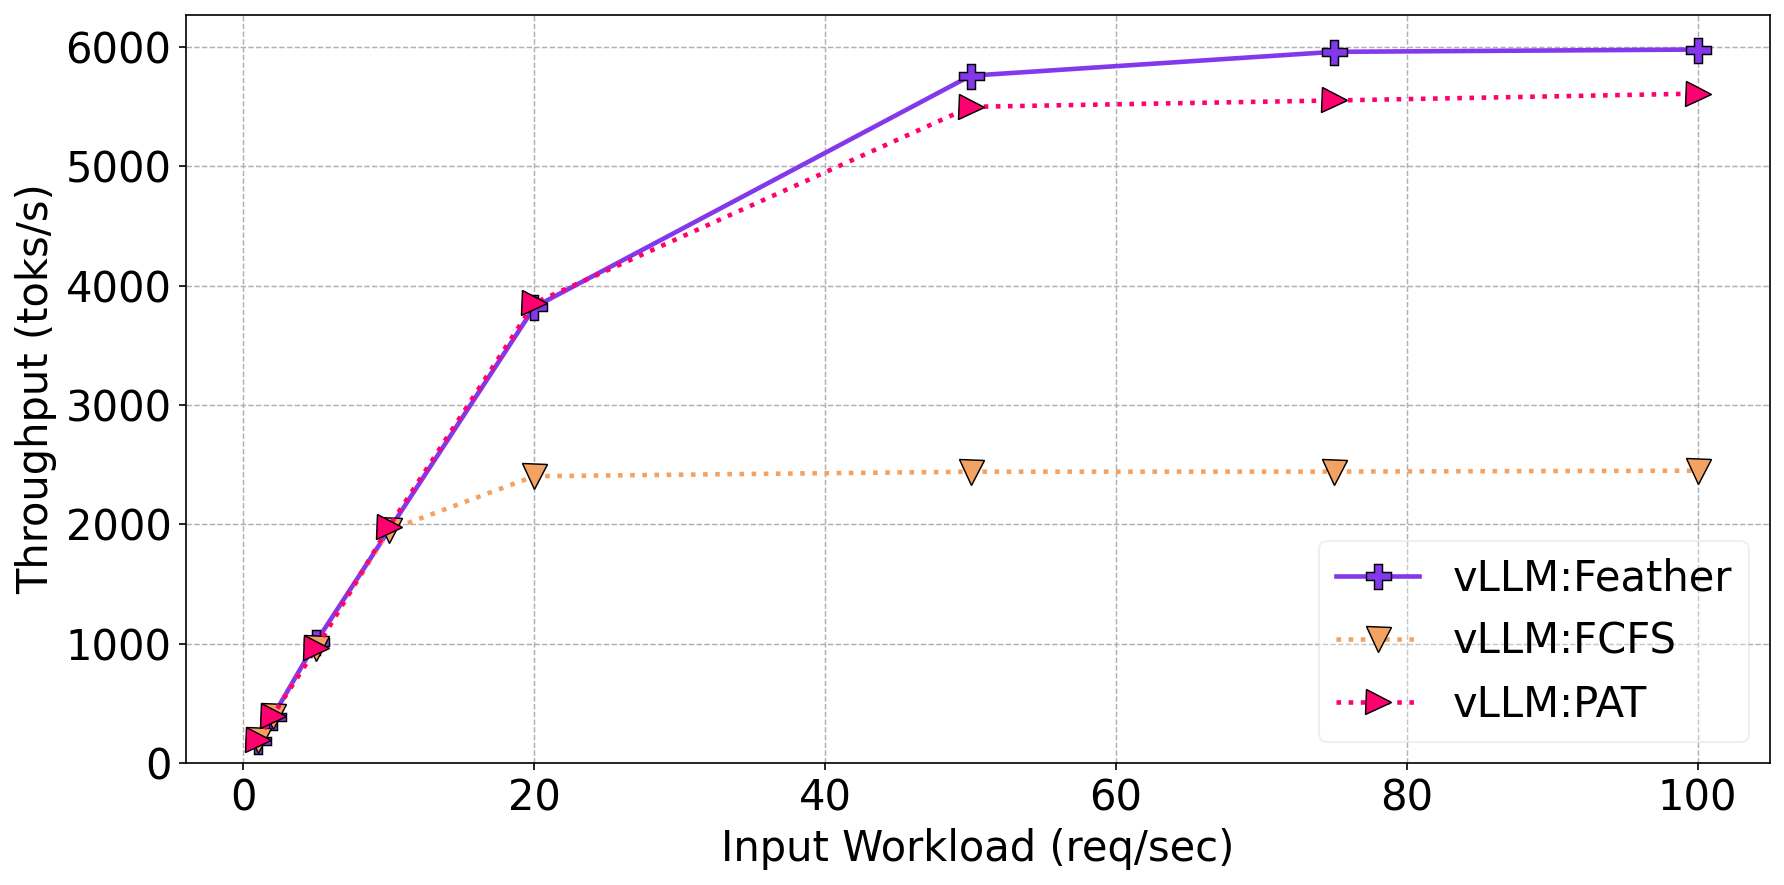
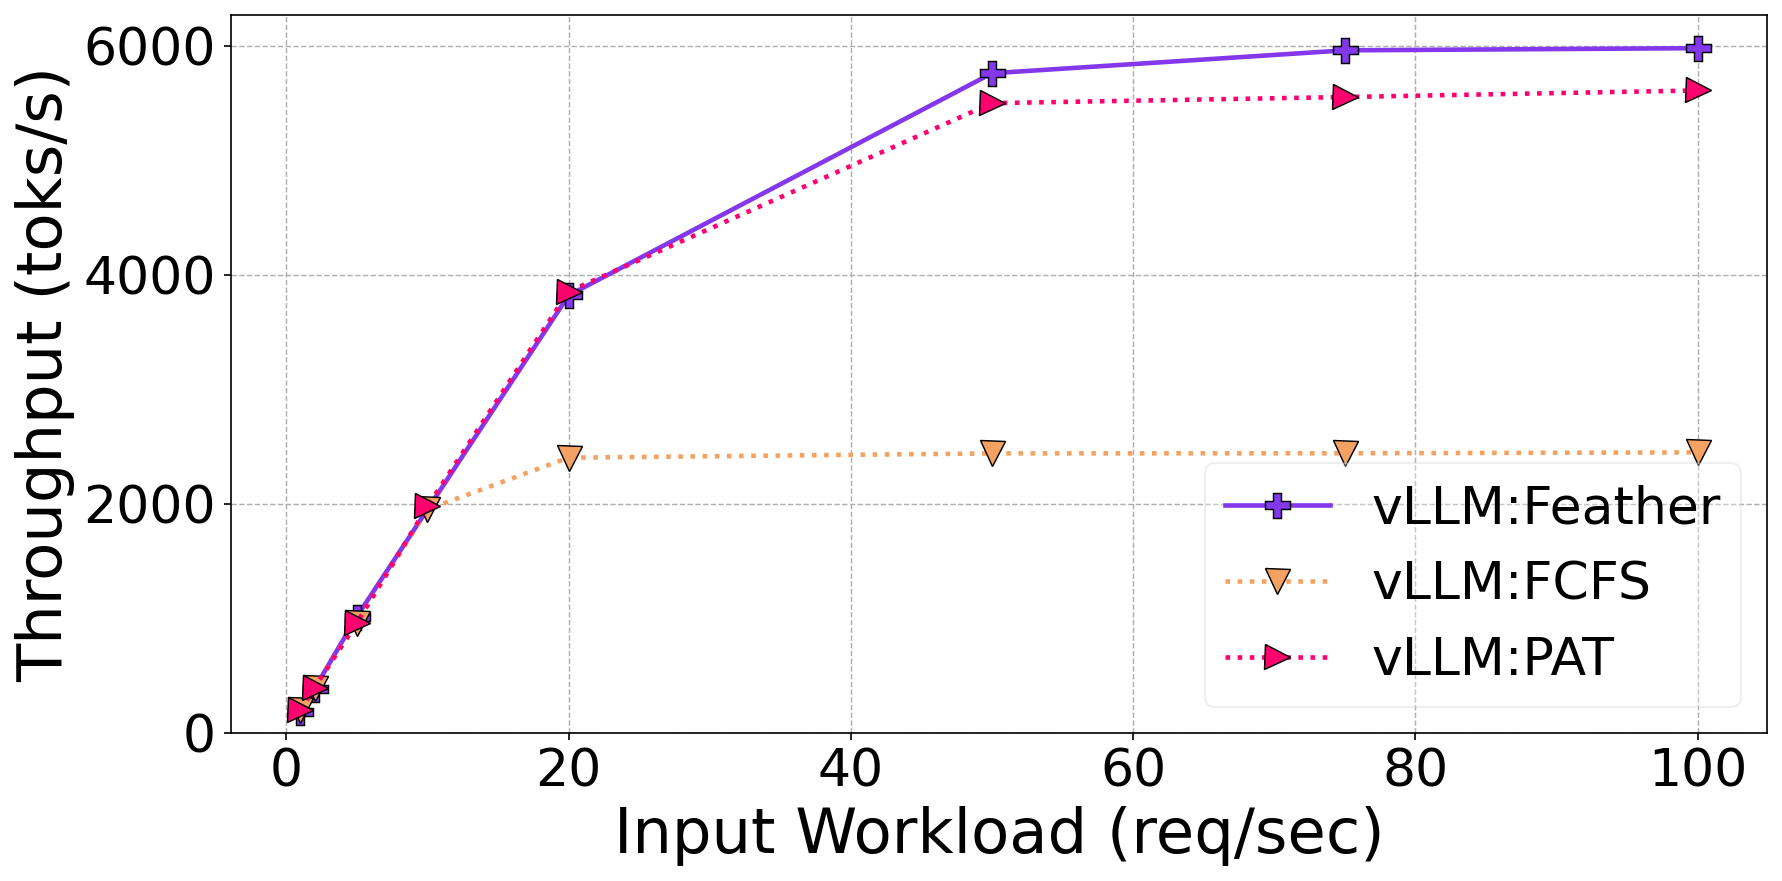
pat

diff --git a/code/vllm/pat_logs/plot.py b/code/vllm/pat_logs/plot.py
@@ -117,11 +117,11 @@ for i, (label, xs, ys) in enumerate(series):
         label=f"vLLM:{label}",
     )
 
-ax.set_xlabel("Input Workload (req/sec)", fontsize=20)
-ax.set_ylabel("Throughput (toks/s)", fontsize=20)
-ax.tick_params(axis="both", labelsize=20)
+ax.set_xlabel("Input Workload (req/sec)", fontsize=30)
+ax.set_ylabel("Throughput (toks/s)", fontsize=30)
+ax.tick_params(axis="both", labelsize=25)
 ax.yaxis.set_major_formatter(ticker.FormatStrFormatter('%.0f'))
-ax.legend(fontsize=20, framealpha=0.3, loc="lower right")
+ax.legend(fontsize=25, framealpha=0.3, loc="lower right")
 ax.grid(True, linewidth=0.7, linestyle="--")
 ax.set_ylim(bottom=0)
 plt.tight_layout()
